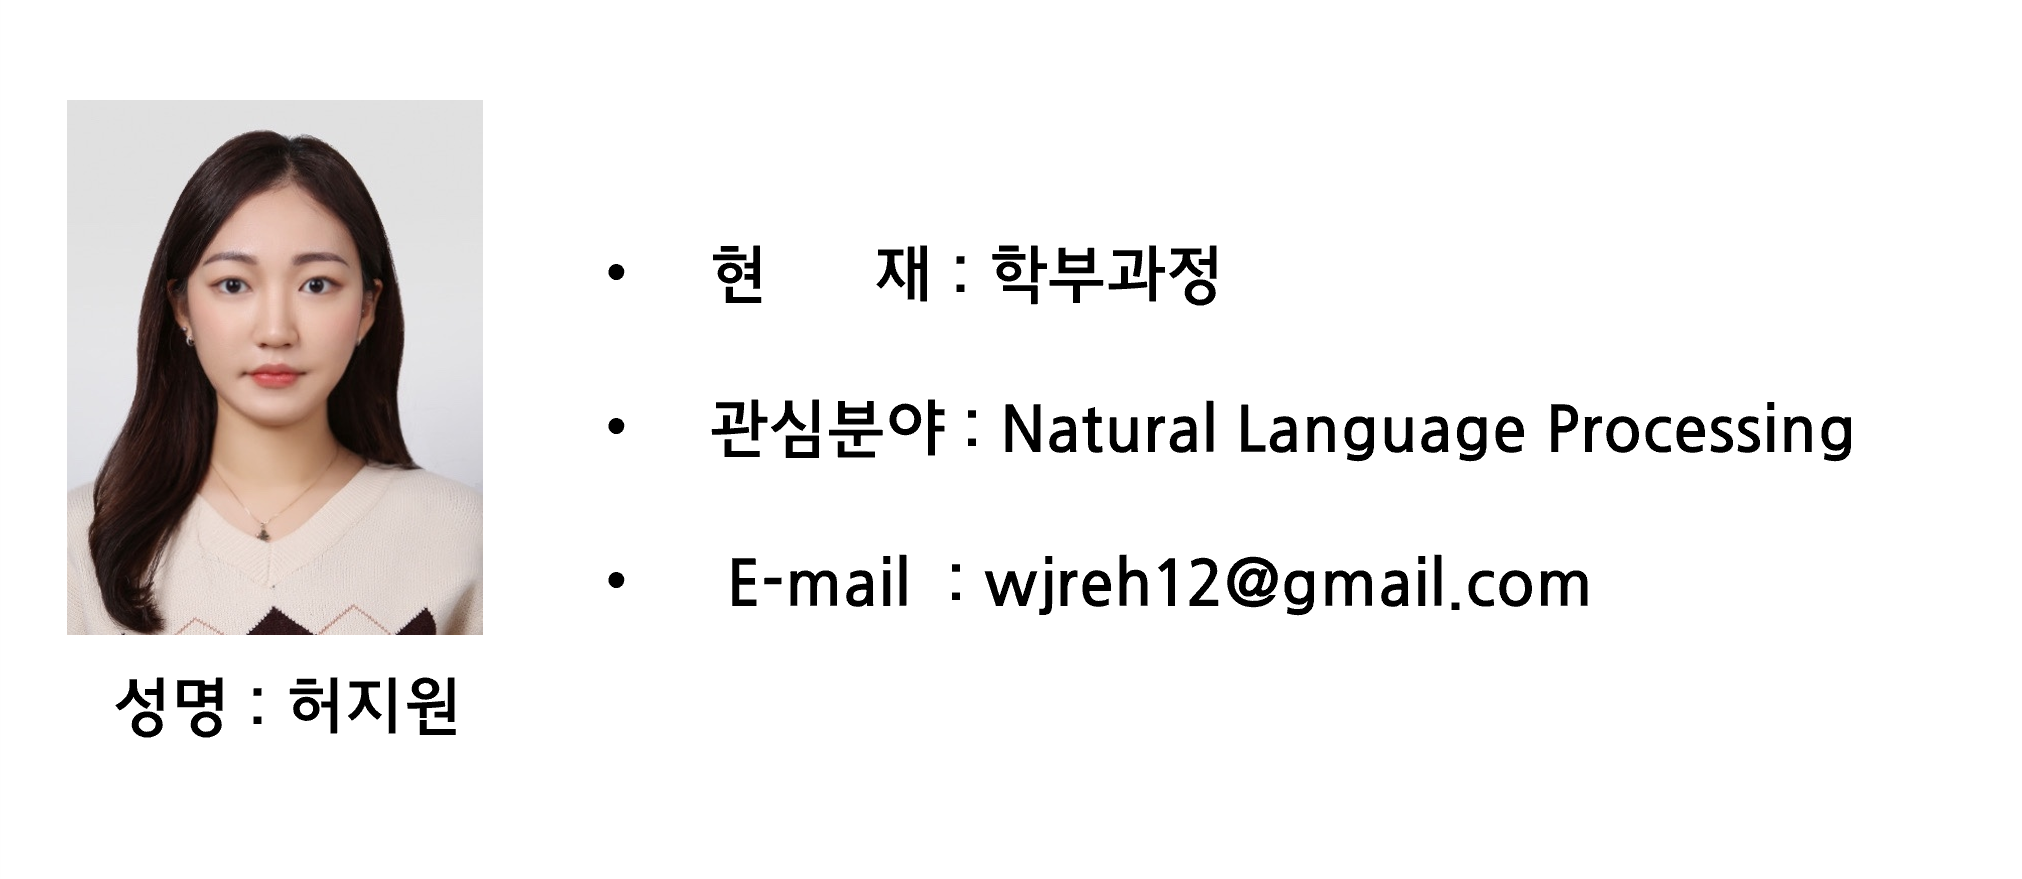
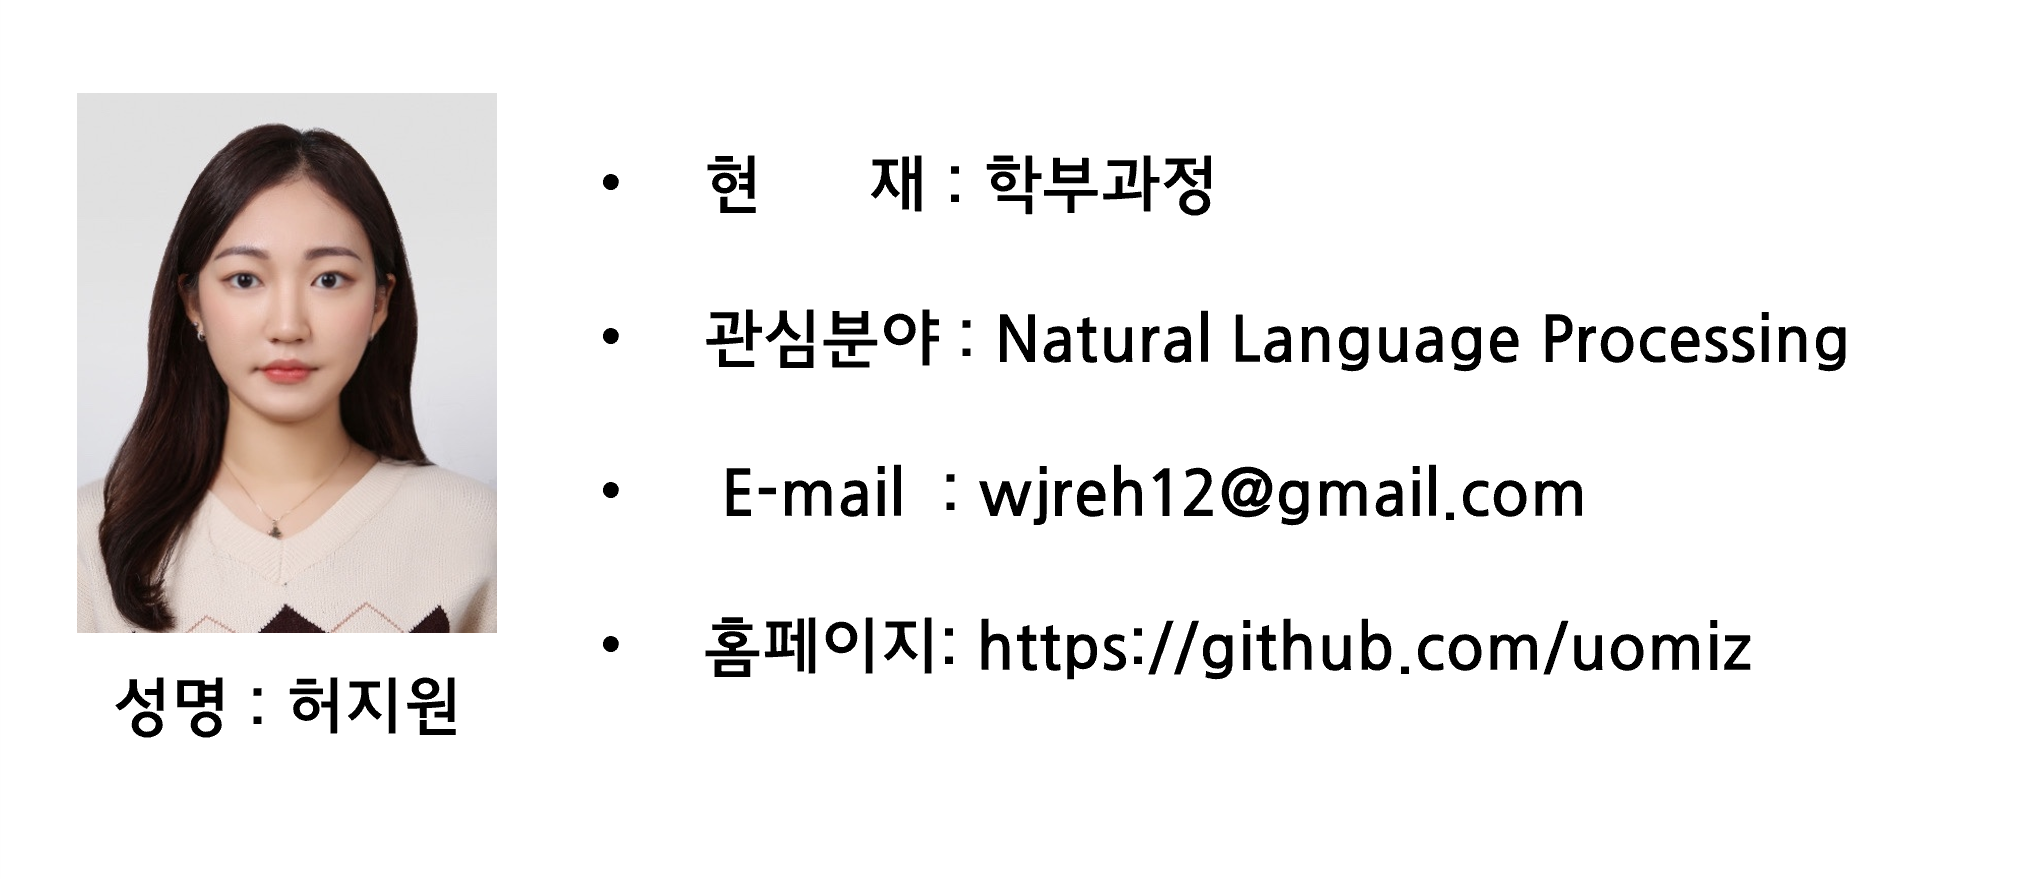
Update Members.html

diff --git a/Members.html b/Members.html
@@ -60,7 +60,7 @@ title: Members
 	<p><div><a href = "https://heygeronimo.tistory.com" target = "_blank"><img class = "center" src="/assets/img/members/member_pjy.png" width = "250px" height = "125px"></div></p>
 	<p><div><a href = "https://github.com/yali98" target = "_blank"><img class = "center" src="/assets/img/members/member_jyj.png" width = "250px" height = "125px"></div></p>
 	<p><div><a href = "https://github.com/tkfhdk123" target = "_blank"><img class = "center" src="/assets/img/members/member_pjj.png" width = "250px" height = "125px"></div></p>
-	<p><div><a href = "https://github.com/" target = "_blank"><img class = "center" src="/assets/img/members/member_psw.png" width = "250px" height = "125px"></div></p>
+	<p><div><a href = "https://seongwan.notion.site/Hello-I-m-Seongwan-Park-fcafe863b05043f0a3ce98176427e799" target = "_blank"><img class = "center" src="/assets/img/members/member_psw.png" width = "250px" height = "125px"></div></p>
 	<p><div><a href = "https://github.com/ChoHyeonSu" target = "_blank"><img class = "center" src="/assets/img/members/member_jhs.png" width = "250px" height = "125px"></div></p>
 	<p><small><a href="#top">Back to Top</a></small></p>
 	</blockquote>
@@ -68,8 +68,8 @@ title: Members
 	<blockquote>
 	<p><a name="4"><font style = "color:#0000A5;">#학부과정</font></a></p>
 	<p><div><a href = "https://github.com/mikeysw/mikeysw" target = "_blank"><img class = "center" src="/assets/img/members/member_ysw.png" width = "250px" height = "125px"></div></p>
-	<p><div><a href = "" target = "_blank"><img class = "center" src="/assets/img/members/member_hym.png" width = "250px" height = "125px"></div></p>
-	<p><div><a href = "" target = "_blank"><img class = "center" src="/assets/img/members/member_hjw.png" width = "250px" height = "125px"></div></p>
+	<p><div><a href = "https://github.com/user13571" target = "_blank"><img class = "center" src="/assets/img/members/member_hym.png" width = "250px" height = "125px"></div></p>
+	<p><div><a href = "https://github.com/uomiz" target = "_blank"><img class = "center" src="/assets/img/members/member_hjw.png" width = "250px" height = "125px"></div></p>
 	<p><div><a href = "https://github.com/r01ex" target = "_blank"><img class = "center" src="/assets/img/members/member_ktr.png" width = "250px" height = "125px"></div></p>
 	<p><small><a href="#top">Back to Top</a></small></p>
 	</blockquote>
